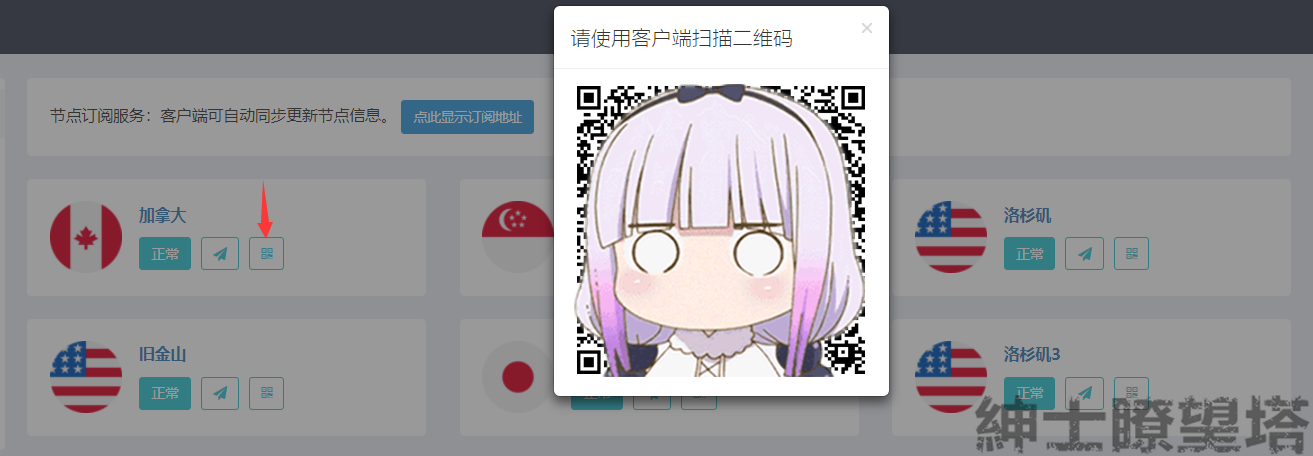
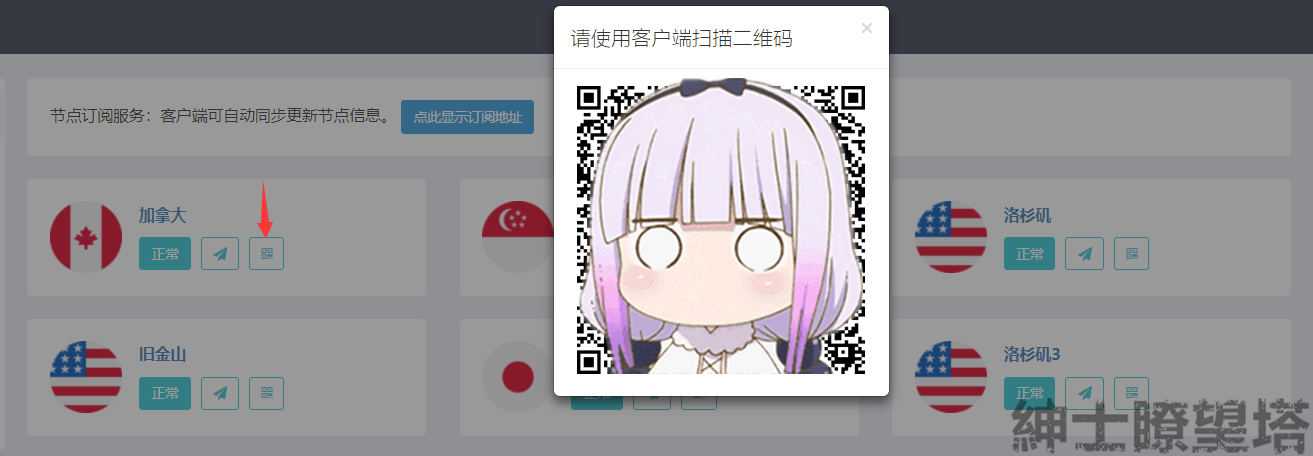
GitBook: [master] one page and 5 assets modified

Changed region(s): [[0.4372, 0.1535, 0.6558, 0.8289], [0.7182, 0.8596, 0.9992, 1.0]]

diff --git a/tutorial/sub_link.md b/tutorial/sub_link.md
@@ -10,11 +10,17 @@
 节点订阅：客户端可自动同步更新节点信息。
 {% endhint %}
 
-![](../.gitbook/assets/sublink%20%281%29.png)
+![](../.gitbook/assets/sublink%20%282%29.png)
 
 ## 线路二维码
 
 ![](../.gitbook/assets/qrcode.png)
 
 ## 线路信息
+
+![](../.gitbook/assets/link.png)
+
+## 手动设置
+
+![](../.gitbook/assets/setting.png)
 
